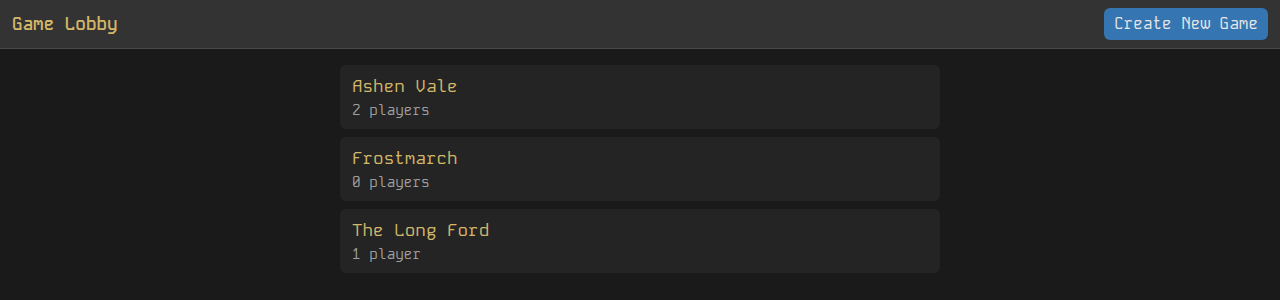
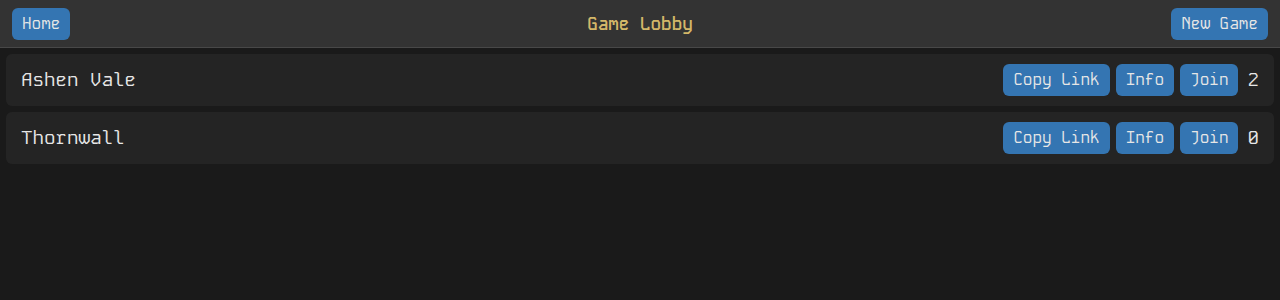
README shows the GameRoom lobby and the play toolbar

diff --git a/README.md b/README.md
@@ -2,9 +2,9 @@
 
 A medieval fantasy RTS for the browser: pick a starting party, gather wood, stone, iron, water and food, and build out from a campfire, against other players on the same map. Built with Bun, Phaser 3 and [web-game-framework](https://github.com/fatlard1993/web-game-framework).
 
-![The game lobby: a Create New Game button and a card per game with its name and player count](./img/hub.png)
+![The game lobby: Home and New Game, and a row per game with its name, player count, and Copy Link, Info and Join](./img/hub.png)
 
-![Play: the resource bar and population across the top, and two players' campfires and units on a generated map of grass, forest, stone, water and dirt; the left party is box-selected](./img/play.png)
+![Play: Exit and the game's name, the resource bar and population, and two players' campfires and units on a generated map of grass, forest, stone, water and dirt](./img/play.png)
 
 ## Setup
 
@@ -19,7 +19,7 @@ A medieval fantasy RTS for the browser: pick a starting party, gather wood, ston
 
 Then open [http://localhost:3040](http://localhost:3040). Options: `--port`/`-p` (or the `PORT` env var) and `--database`/`-d` (default `~/.sorcery-and-savagery.json`). `bun run db:clean` deletes the default save file.
 
-Create a game, pick 7 individuals for your starting party (workers, warriors, archers, mages, healers), then on the map:
+Create a game or join one from the lobby, name yourself, pick 7 individuals for your starting party (workers, warriors, archers, mages, healers), then on the map:
 
 - Click, shift-click or drag a box to select units; Escape deselects
 - Click the map with units selected for a radial menu: Move or Build on open ground, Gather on a resource (a forest offers Food or Wood), Build on a site still under construction
@@ -28,7 +28,7 @@ Create a game, pick 7 individuals for your starting party (workers, warriors, ar
 
 ## Dev
 
-`bun dev` runs the server with hot reload and rebuilds the client on change; `bun run dev:clean` does the same from an empty save. `bun test` runs the tests.
+`bun dev` runs the server with hot reload and rebuilds the client on change (type `b` to rebuild, `stop` to quit); `bun run dev:clean` does the same from an empty save. `bun test` runs the tests.
 
 ## Current state
 
@@ -36,7 +36,7 @@ Early and unfinished. Working: the lobby, the starting party, the generated map,
 
 Not built yet:
 
-- **Spawn location picker.** A player who joins waits with their party pending until a spawn location is chosen, but the client has no screen for it yet, so a new player sees the map with no campfire or units. The server's `POST /api/games/:gameId/players/:playerId/spawn` takes a `position` (the screenshot's players were spawned that way).
+- **Spawn location picker.** A player who has chosen a party waits with it pending until a spawn location is chosen, but the client has no screen for it yet, so a new player sees the map with no campfire or units. The server's `POST /games/:gameId/players/:playerId/spawn` takes a `position` (the screenshot's players were spawned that way).
 - **Unit production.** The server queues it; nothing in the client asks for it.
 - **Building range.** Buildings can go anywhere, not within reach of the campfire.
 
